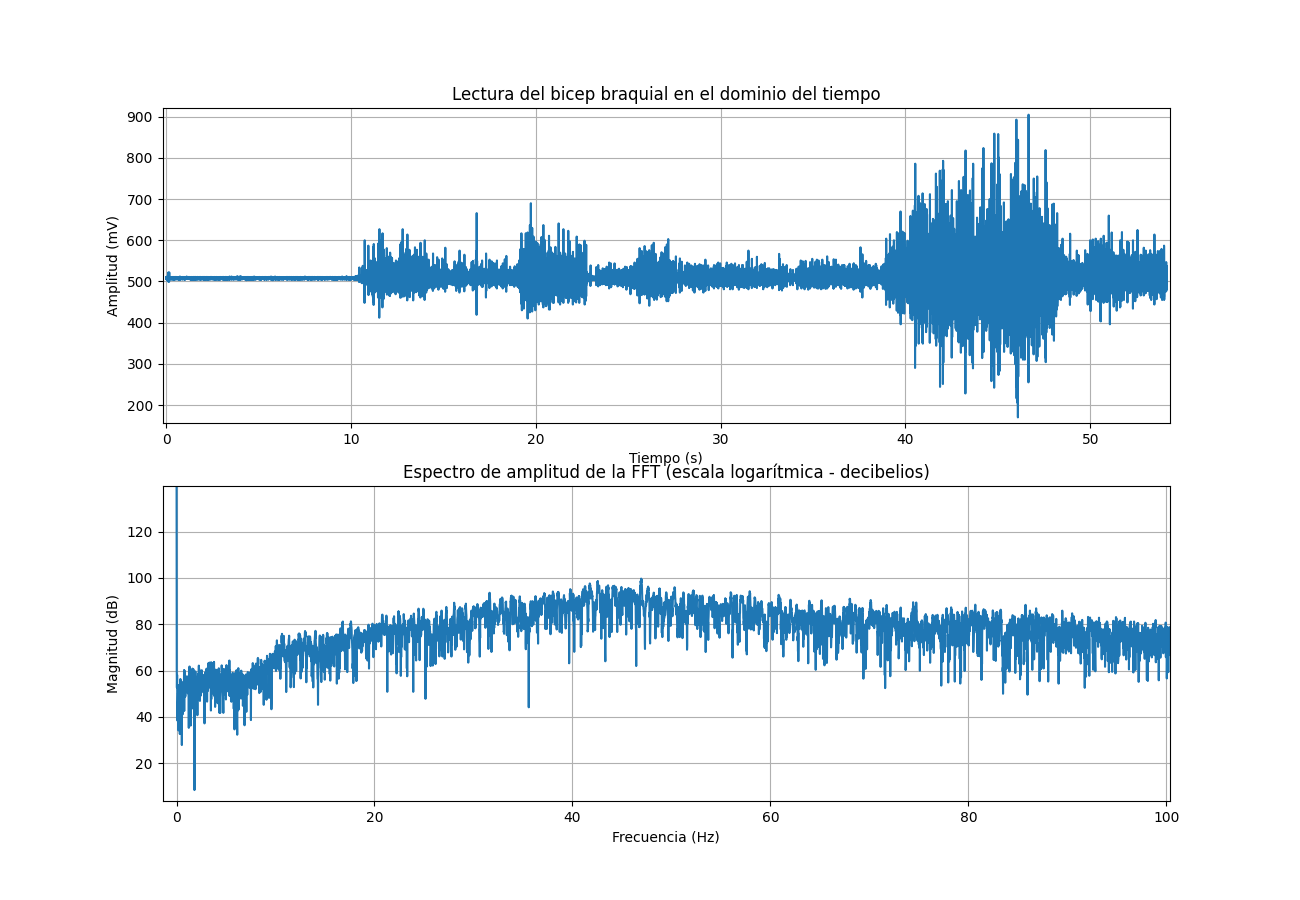
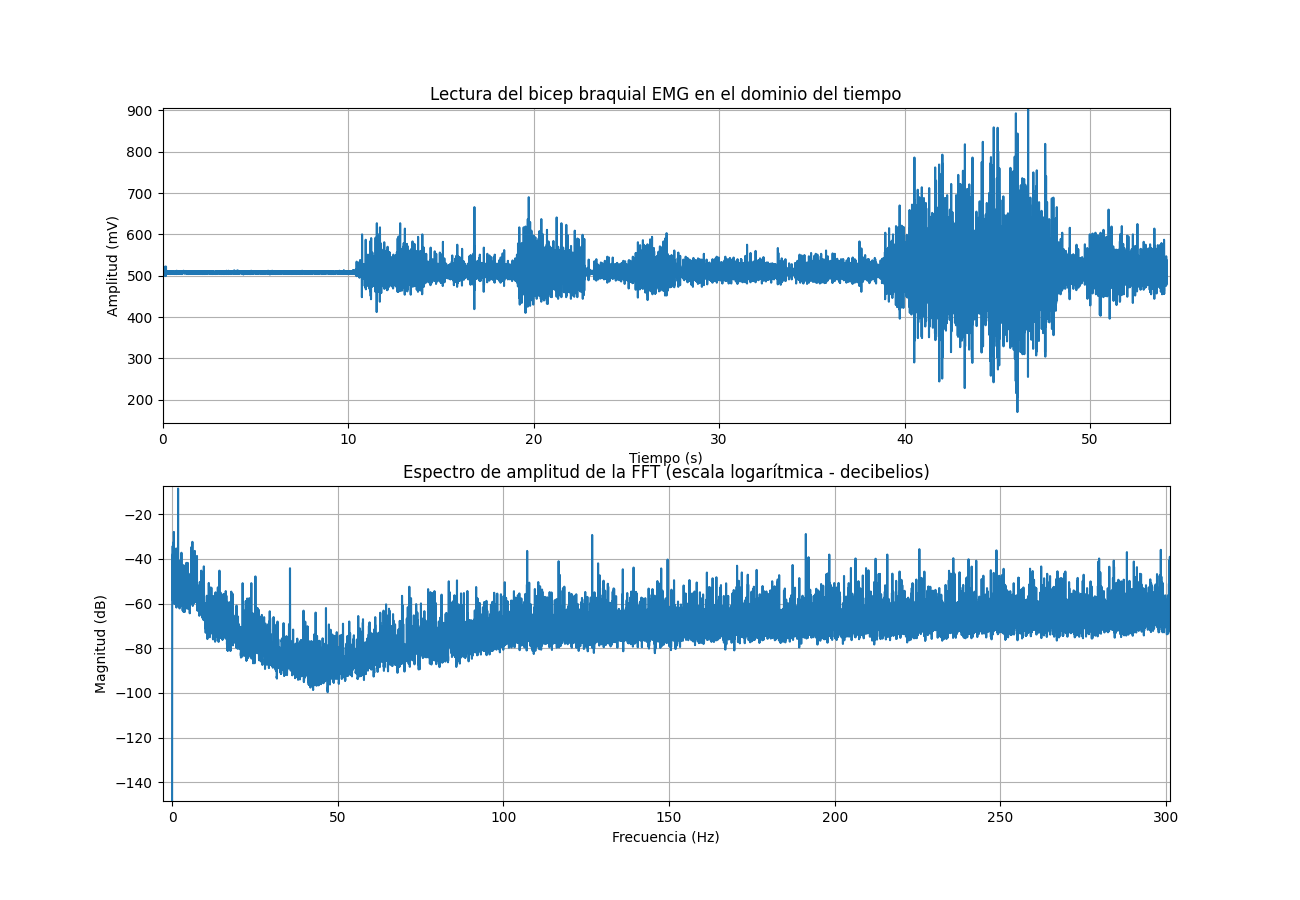
Agregando MD del lab 3 y ejecutando permalinks y editando imagenes

diff --git a/Software/Ploteo_de_datos_lab3.py b/Software/Ploteo_de_datos_lab3.py
@@ -5,7 +5,7 @@ import matplotlib.pyplot as plt
 import re
 
 # Cargar datos desde el archivo de texto según la ubicación del 
-archivo = "C:/Users/Equipo/OneDrive/Escritorio/Introduccion_a_señales_biomedicas/EMG_intro/Lectura_antebrazo_supinación_EMG.txt"
+archivo = "C:/Users/Equipo/OneDrive/Escritorio/Introduccion_a_señales_biomedicas/EMG_intro/Lectura_pulgar_supinación_EMG.txt"
 def extraer_nombres_columnas(archivo):
     with open(archivo, 'r') as f:
         for linea in f:
@@ -53,7 +53,7 @@ fft_result = np.fft.fft(Lectura_EMG)
 frequencies = np.fft.fftfreq(len(Lectura_EMG), d=1/1000)
 
 # Compute the FFT magnitude
-magnitudes_db = 20*np.log10(np.abs(fft_result))
+magnitudes_db = -20*np.log10(np.abs(fft_result))
 
 #print(Lectura_EMG)
 Lectura_EMG.index = Lectura_EMG.index / 1000
@@ -62,7 +62,7 @@ Lectura_EMG.index = Lectura_EMG.index / 1000
 plt.figure(figsize=(13,9))
 plt.subplot(211)
 plt.plot(Lectura_EMG)
-plt.title("Lectura del antebrazo supinación EMG en el dominio del tiempo")
+plt.title("Lectura del pulgar supinación EMG en el dominio del tiempo")
 plt.xlabel("Tiempo (s)")
 plt.ylabel("Amplitud (mV)")
 plt.grid(True)
